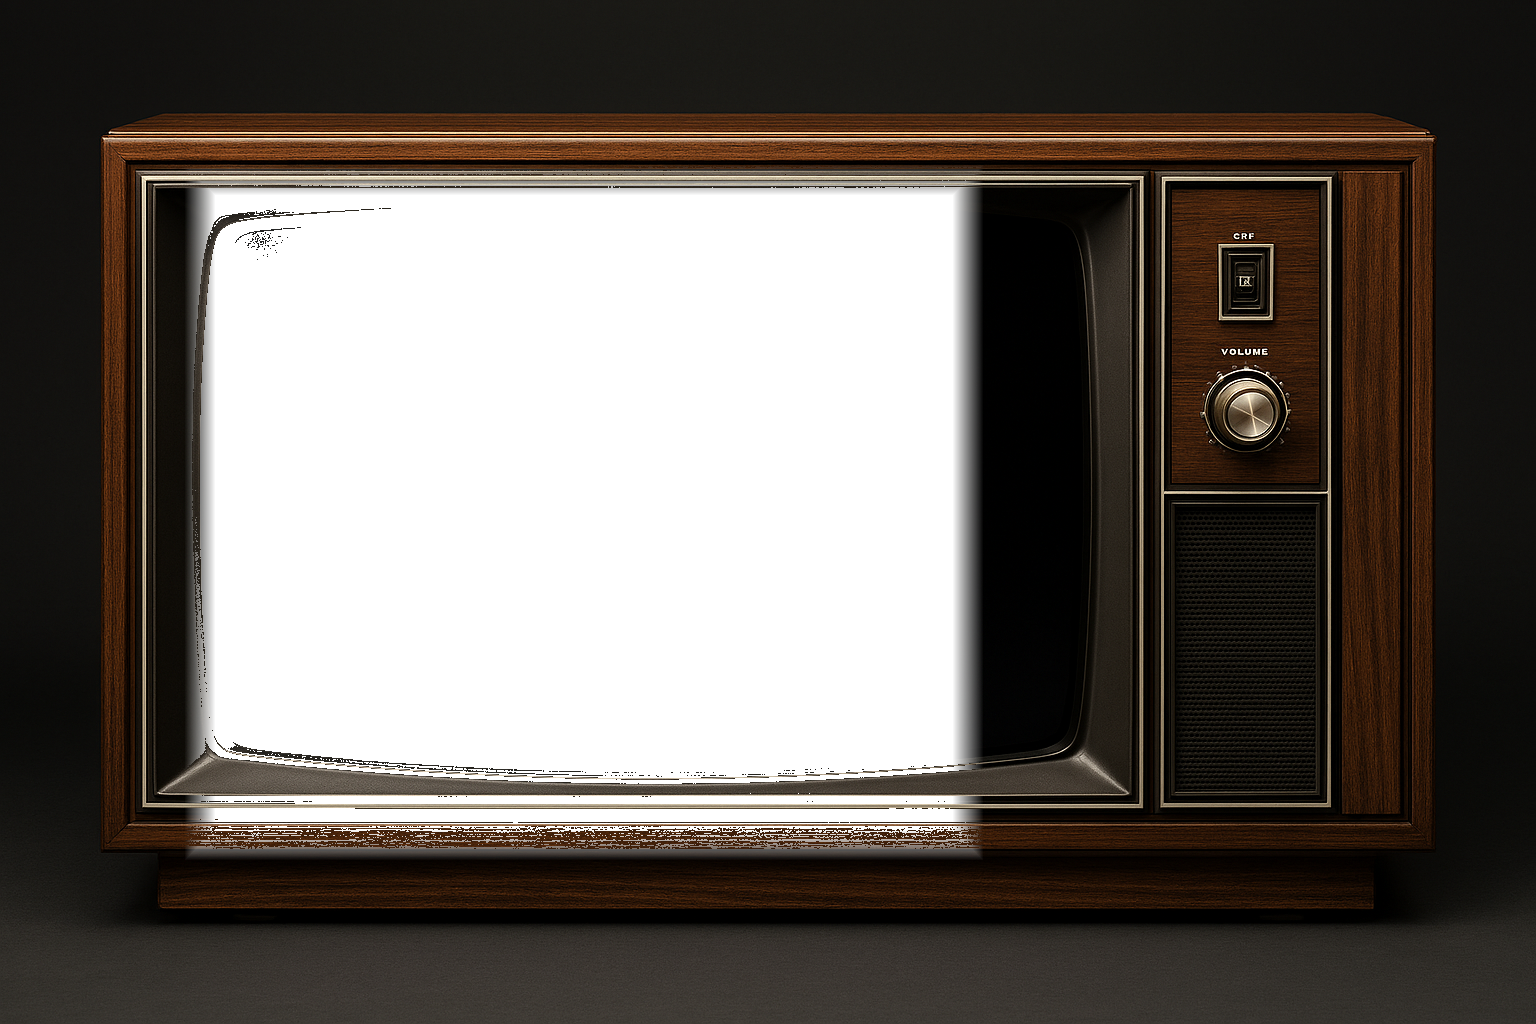
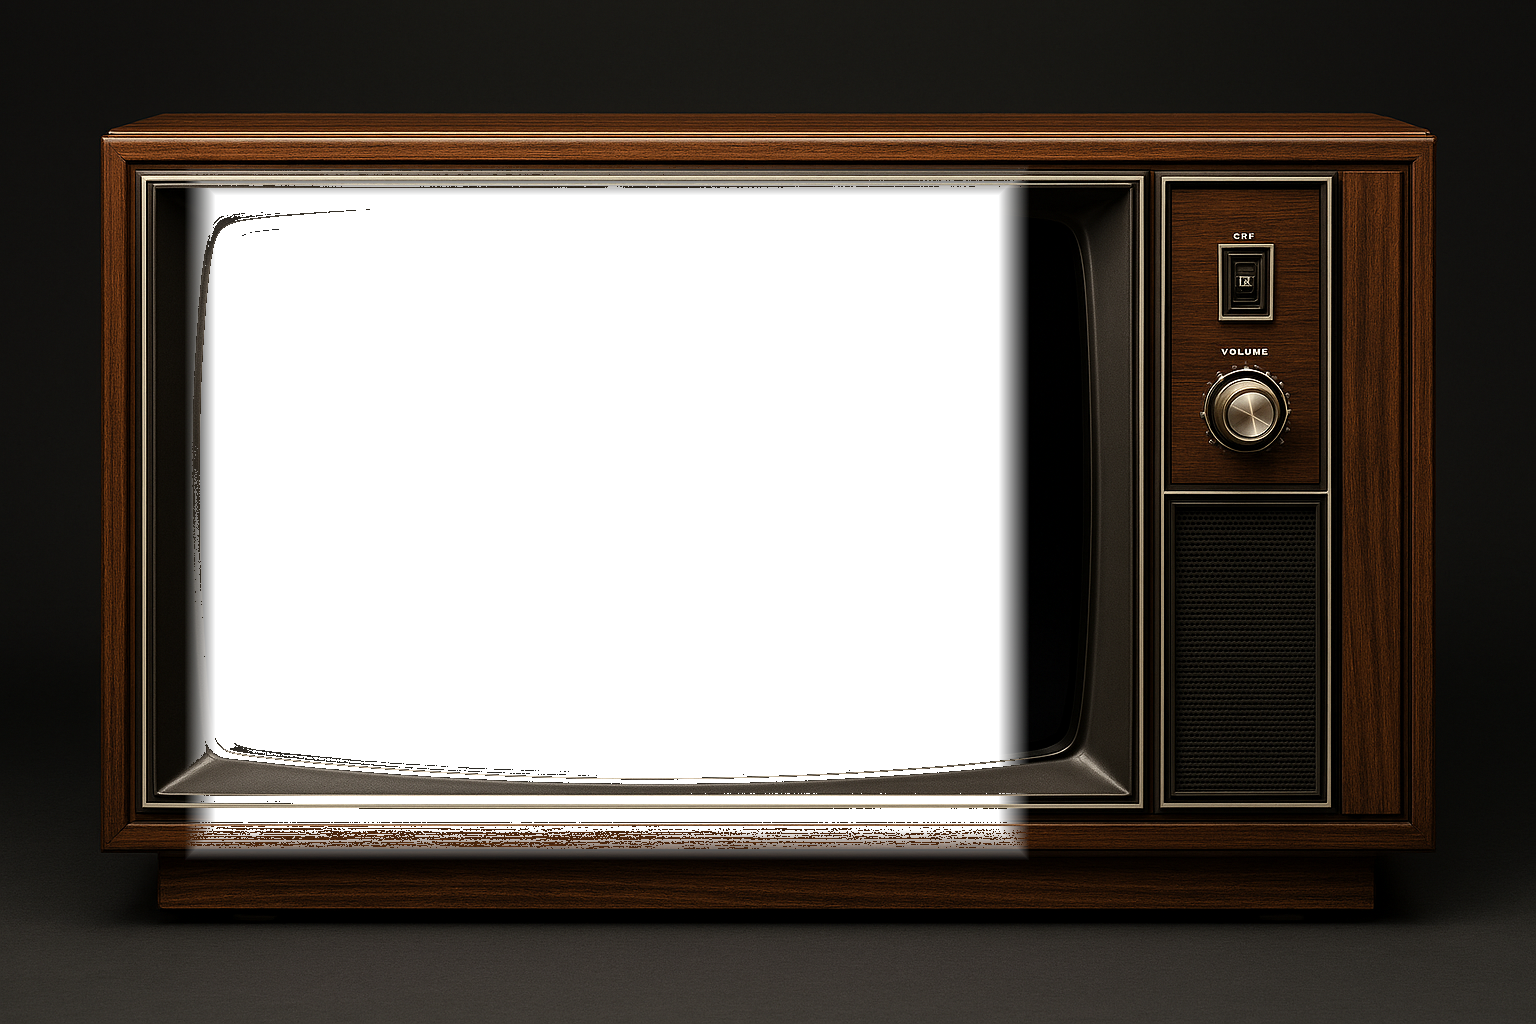
fix: generate TV-frame.png with screen transparency
Simplify generate-tv-frame.mjs to only handle screen transparency
(dark pixels within CRT glass bounds become transparent). CRF label
removal removed from script — will be handled separately.

Screen bounds: left 12%, top 16%, right 67%, bottom 84%.
Brightness threshold: 35. Feather: 2% of width.

diff --git a/packages/frontend/src/App.css b/packages/frontend/src/App.css
@@ -51,10 +51,11 @@
   position: absolute;
   /* Content area sits BEHIND the TV frame image. The frame's opaque
      wood/chrome masks any overflow, so these coordinates only need to
-     be "big enough" to fill the transparent glass area. */
+     be "big enough" to fill the transparent glass area.
+     Glass transparency extends to ~68% from left. */
   left: 8%;
   top: 10%;
-  width: 60%;
+  width: 62%;
   height: 75%;
   background: #0a0a0a;
   border-radius: 8px;
@@ -78,12 +79,12 @@
 .crt-panel {
   position: absolute;
   /* Position over TV-frame.png control strip.
-     Toggle switch sits at roughly x=73-78%, y=18-38%.
+     Toggle switch sits at roughly x=73-78%, y=20-35%.
      Volume knob sits at roughly x=73-78%, y=38-55%. */
-  right: 10%;
-  top: 16%;
-  bottom: 40%;
-  width: 12%;
+  right: 12%;
+  top: 18%;
+  bottom: 38%;
+  width: 10%;
   display: flex;
   flex-direction: column;
   align-items: center;
